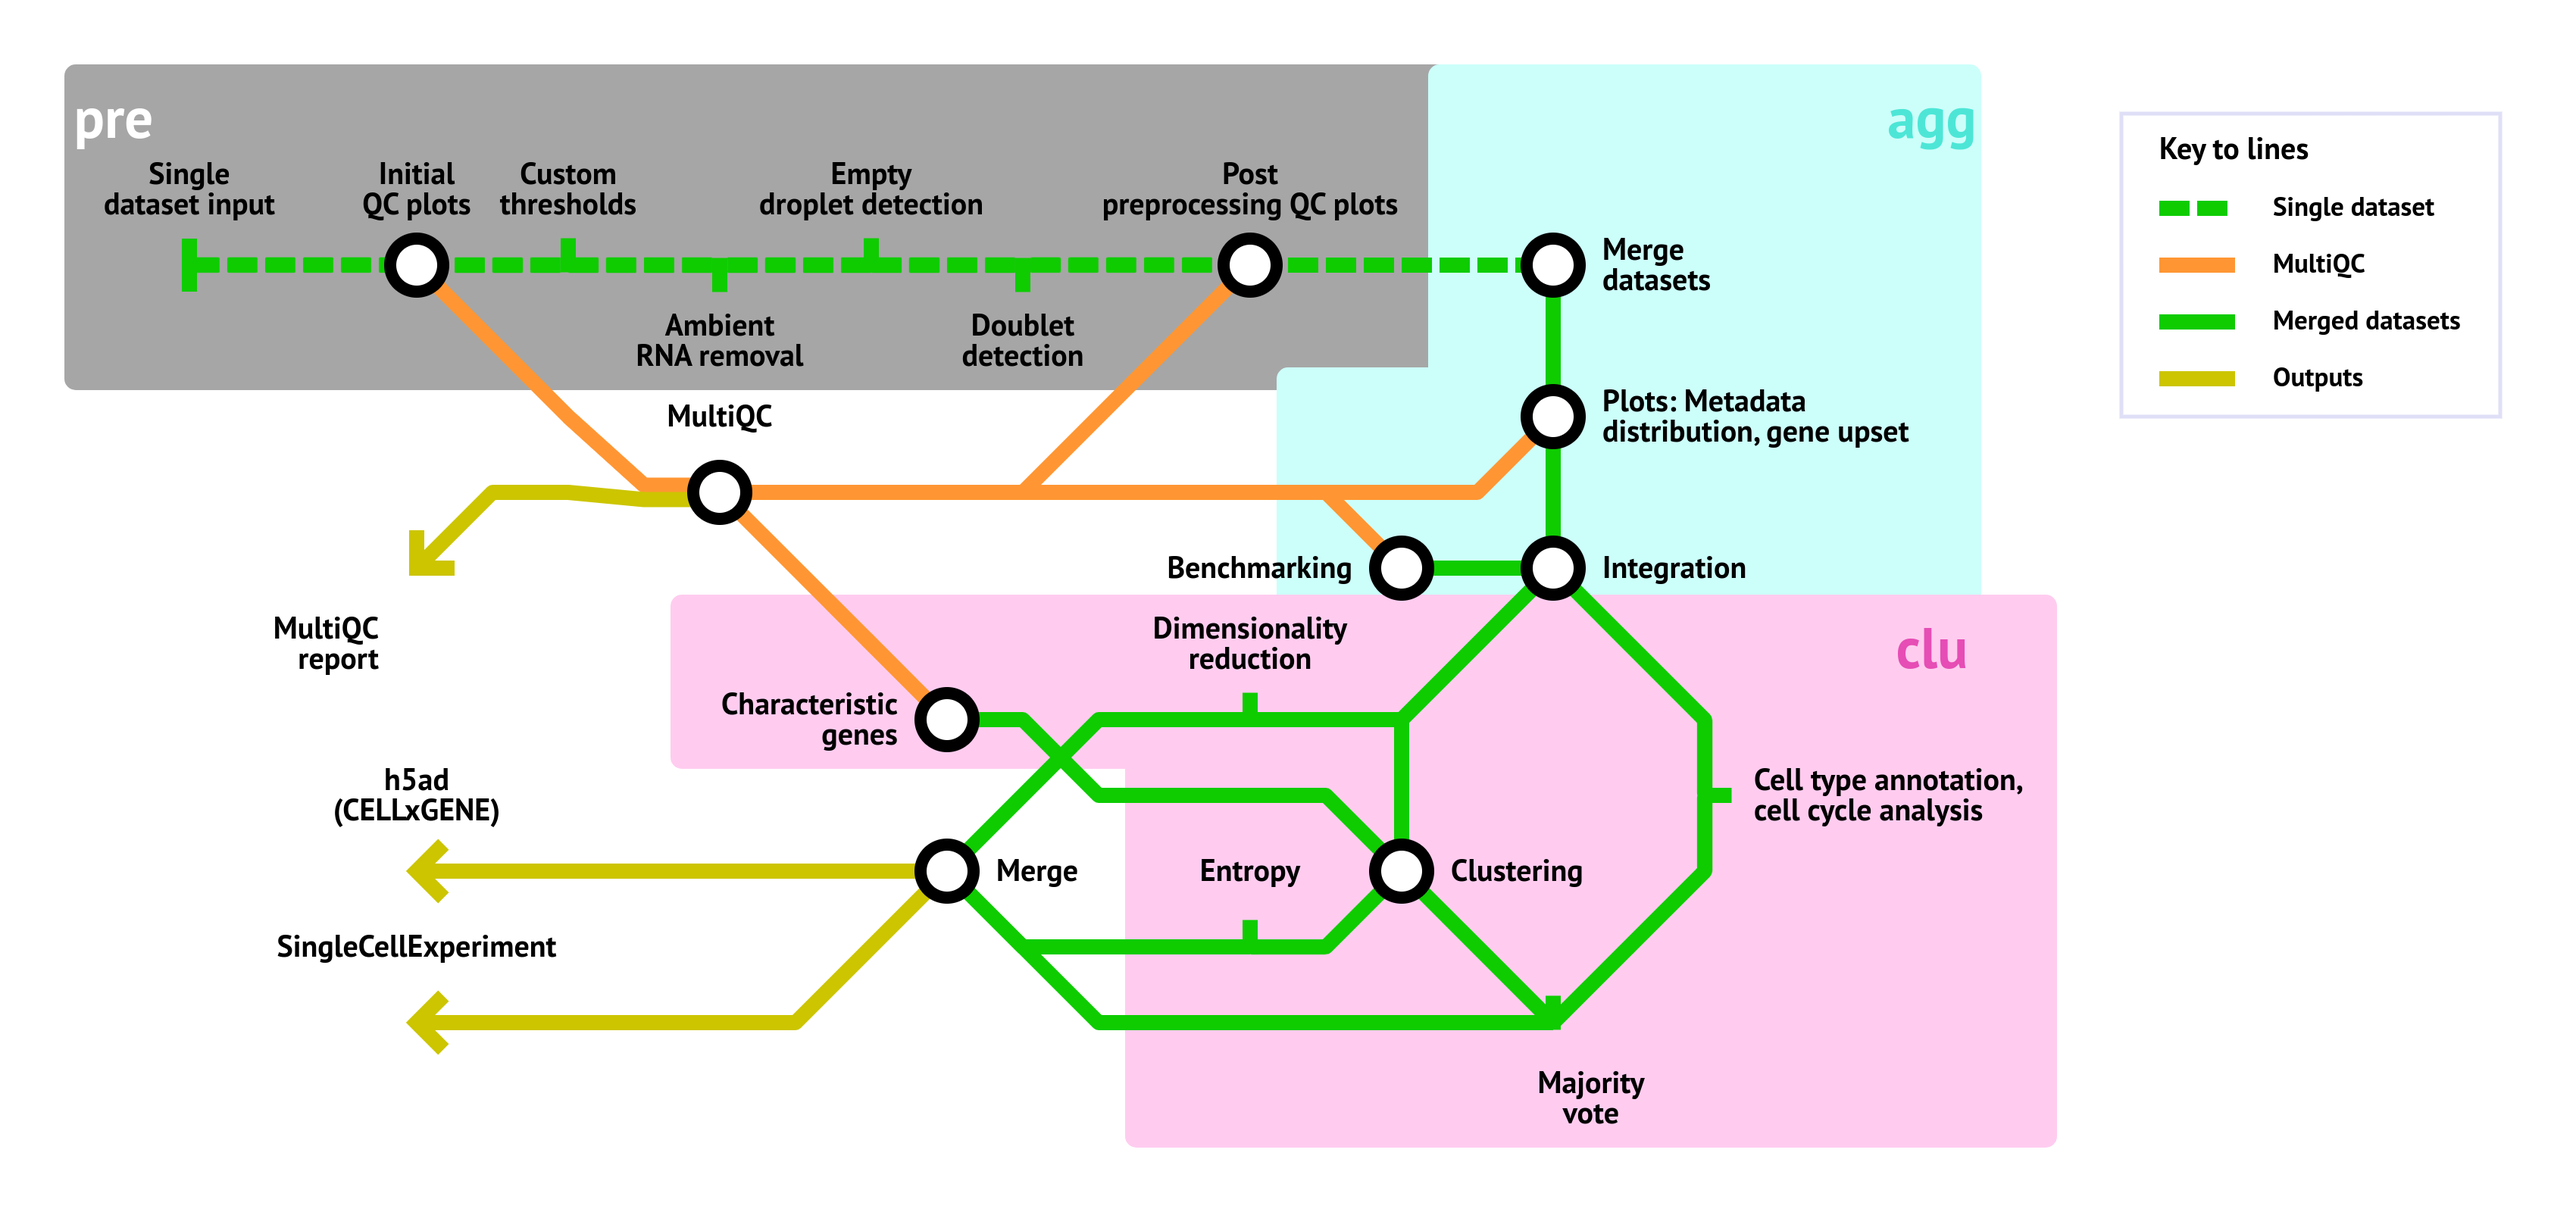
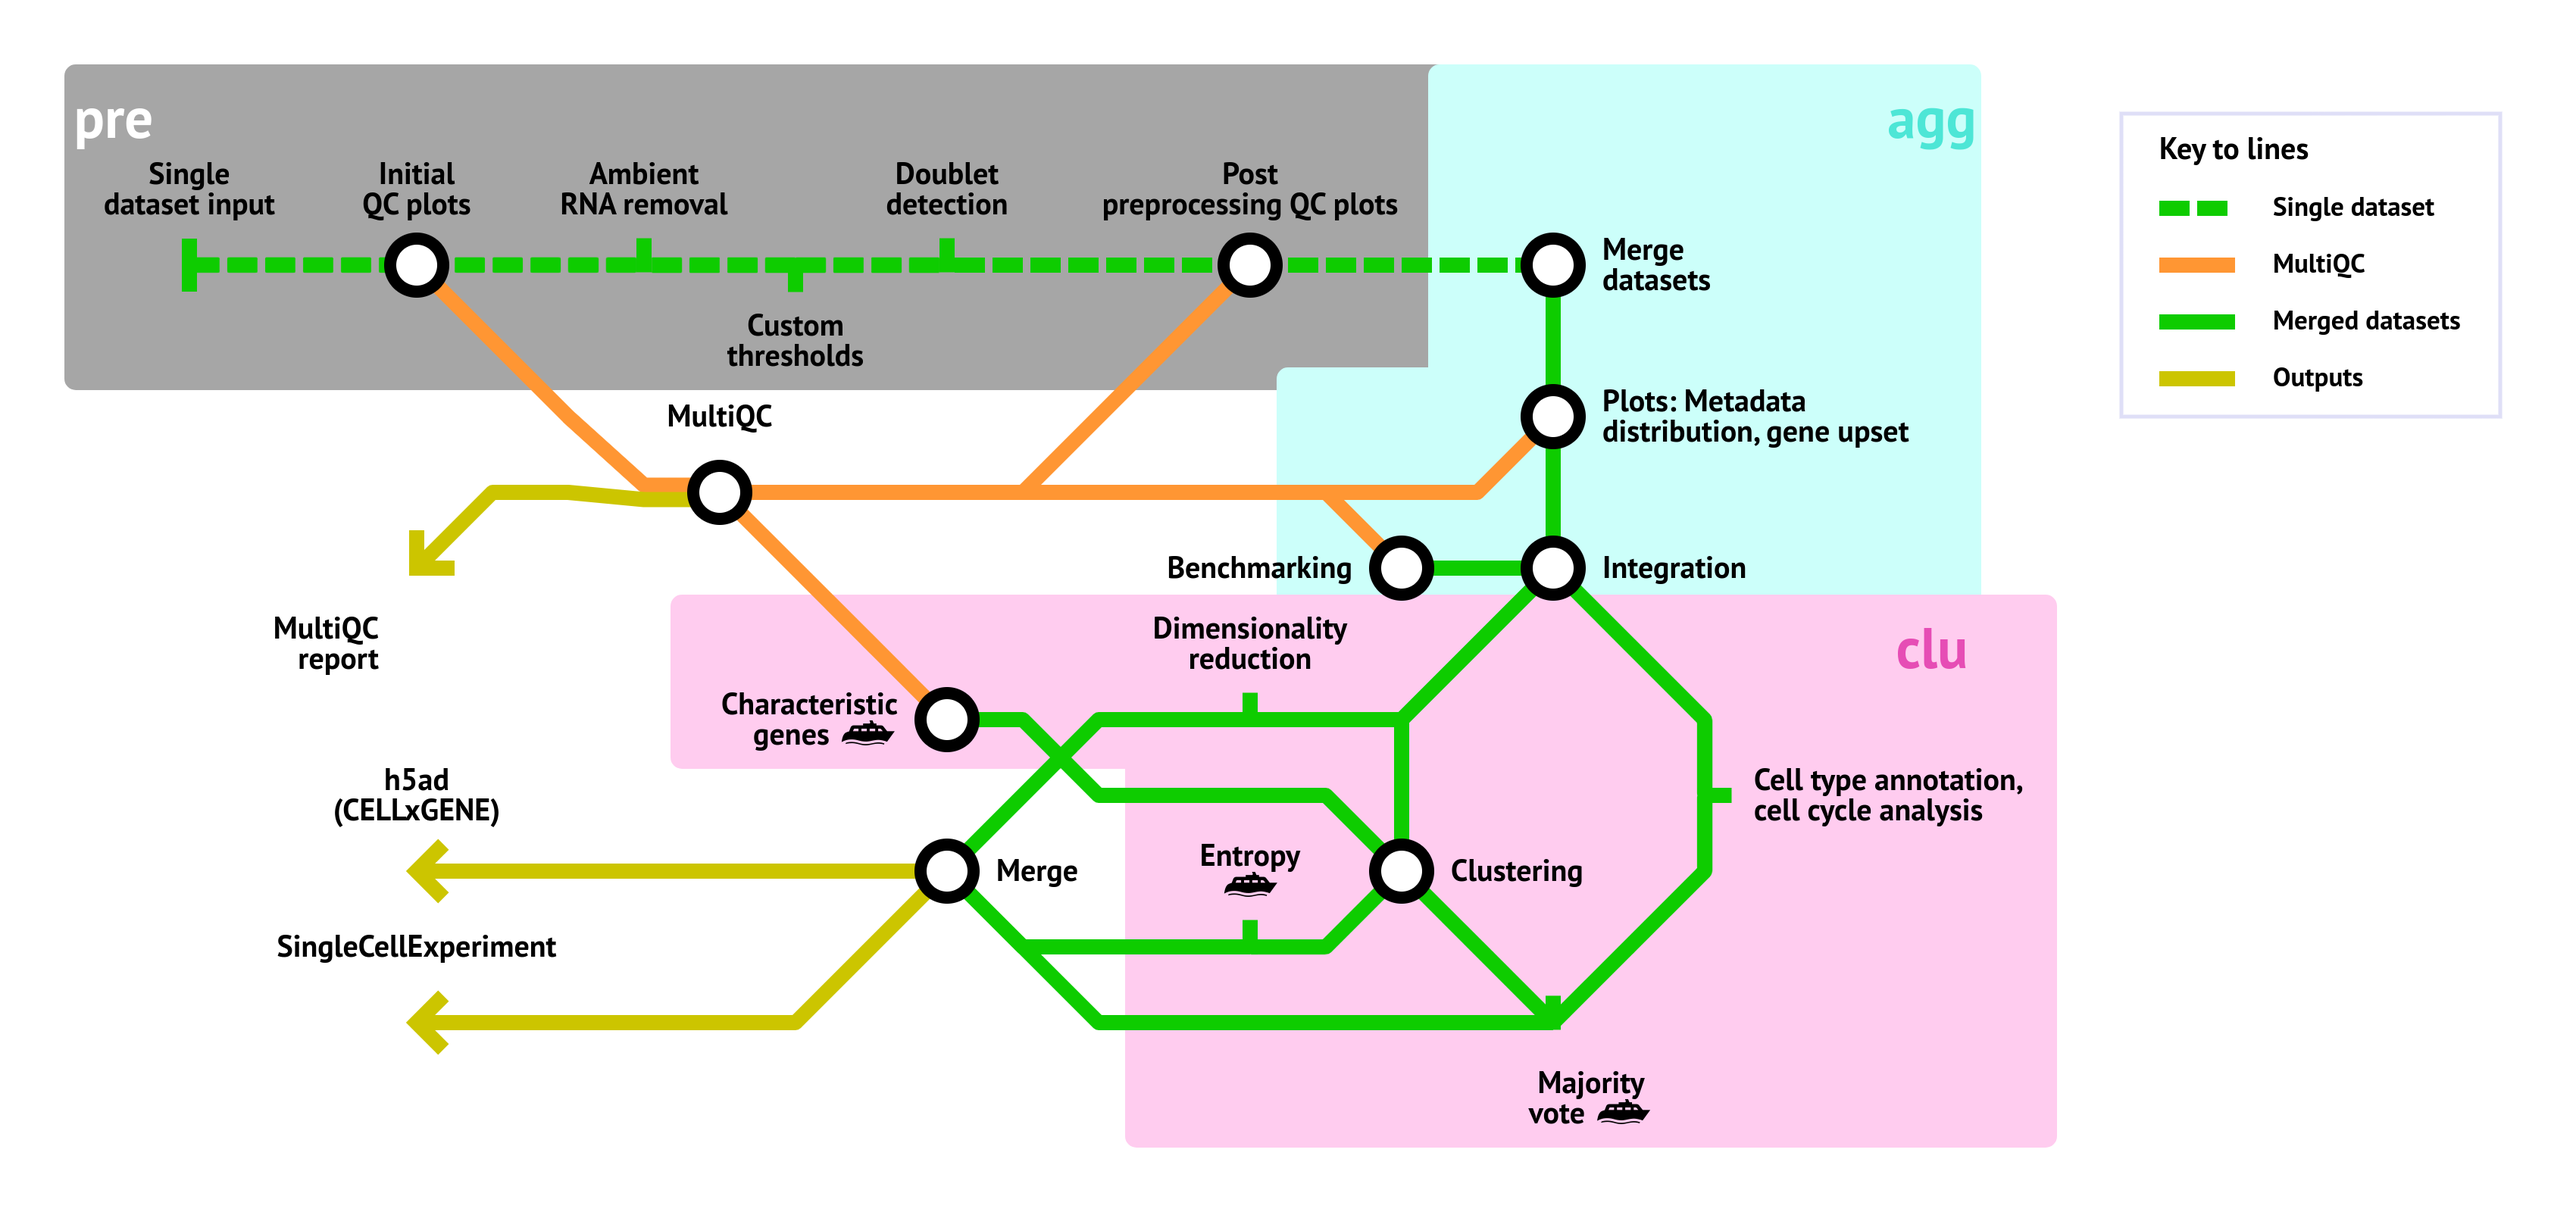
Update metro map

diff --git a/README.md b/README.md
@@ -30,17 +30,17 @@ The pipeline is based on the learnings and implementations from the following pi
 
 # ![nf-core/scdownstream](docs/images/metromap.png)
 
-Not all of the steps shown in the metromap have already been implemented, as this pipeline is still under development. However, the following steps are already functional:
+Steps marked with the boat icon are not yet implemented. For the other steps, the pipeline uses the following tools:
 
 1. Per-sample preprocessing
    1. Convert all RDS files to h5ad format
    2. Present QC for raw counts ([`MultiQC`](http://multiqc.info/))
-   3. Apply user-defined QC filters (can be defined per sample in the samplesheet)
-   4. Remove ambient RNA
+   3. Remove ambient RNA
       - [decontX](https://bioconductor.org/packages/release/bioc/html/decontX.html)
       - [soupX](https://cran.r-project.org/web/packages/SoupX/readme/README.html)
       - [cellbender](https://cellbender.readthedocs.io/en/latest/)
       - [scAR](https://docs.scvi-tools.org/en/stable/user_guide/models/scar.html)
+   4. Apply user-defined QC filters (can be defined per sample in the samplesheet)
    5. Doublet detection (Majority vote possible)
       - [SOLO](https://docs.scvi-tools.org/en/stable/user_guide/models/solo.html)
       - [scrublet](https://scanpy.readthedocs.io/en/stable/api/generated/scanpy.pp.scrublet.html)
